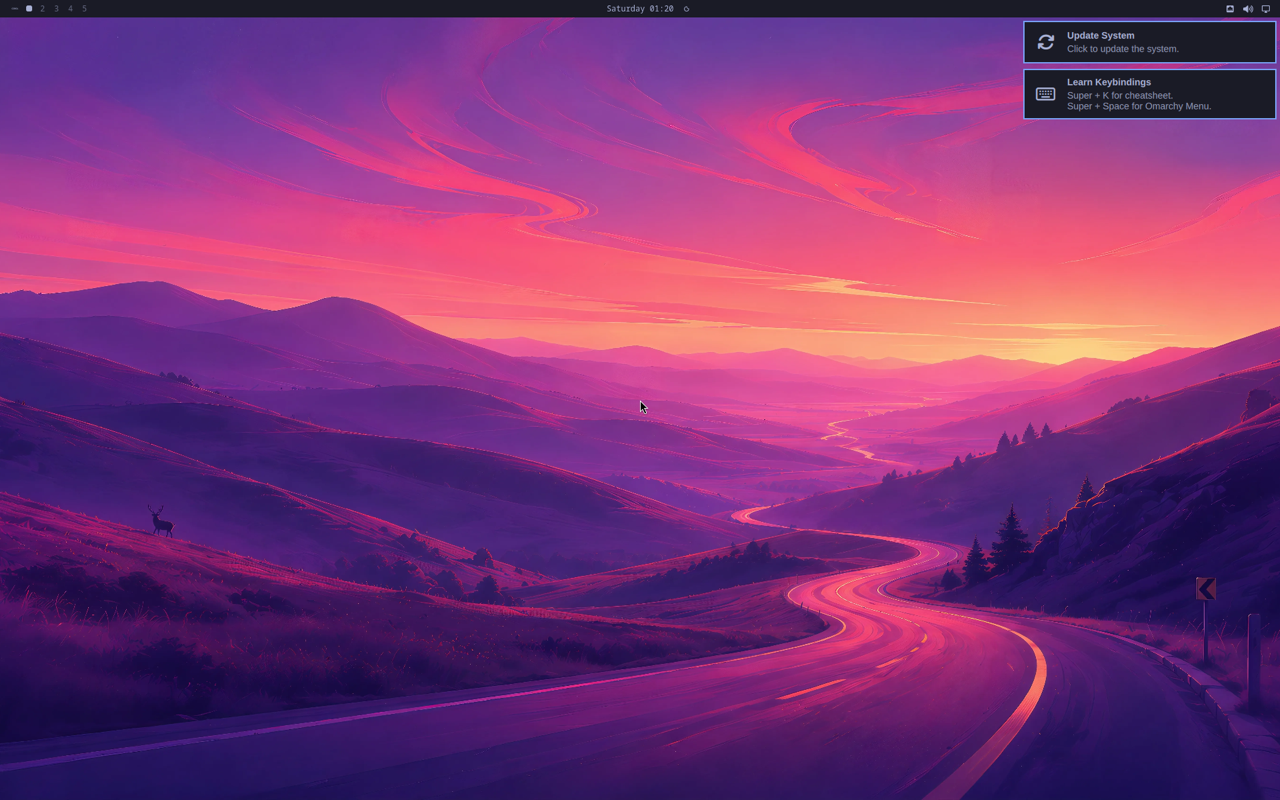
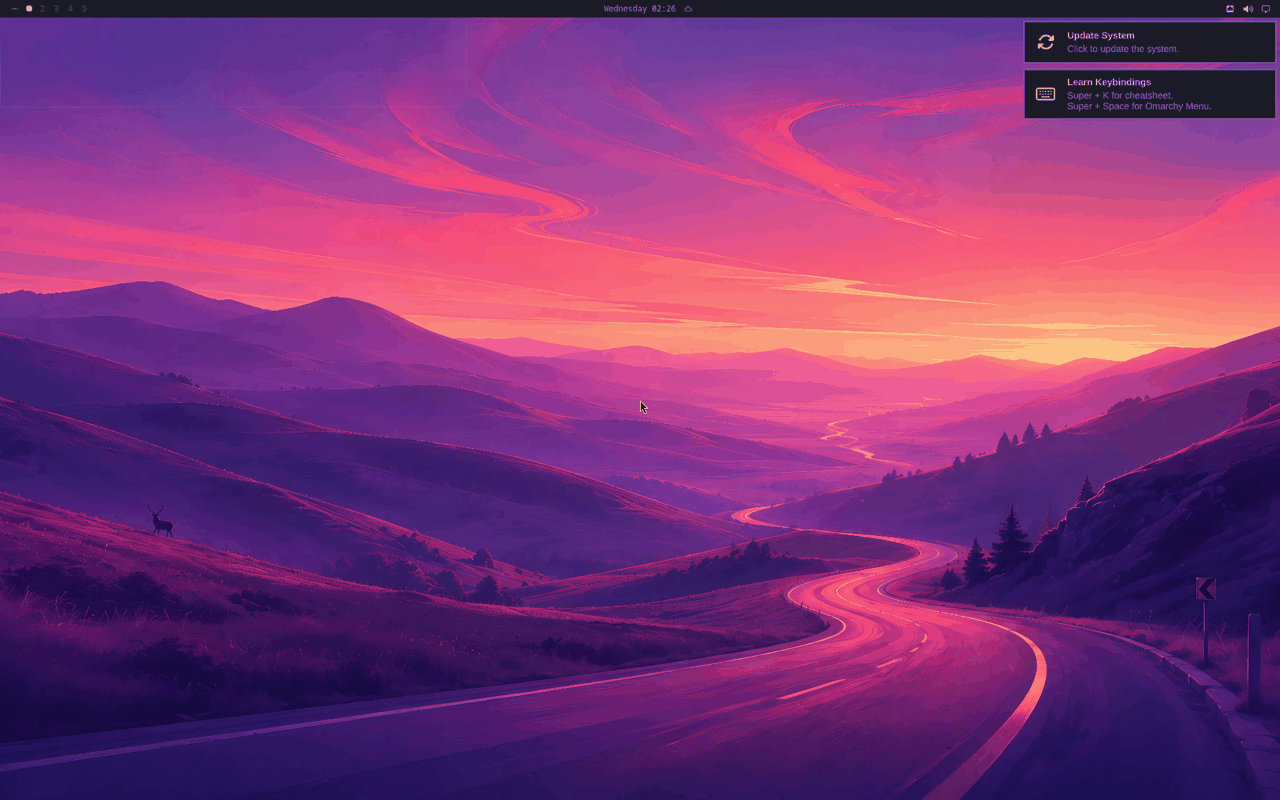
gallery: match the image that is actually published
The entry described the first upload, and the current one differs:

- memory 12 GiB -> 4 GiB. config.plist inside the published zip says
  MemorySize 4096, and this is the number a reader configures the VM with.
- display VGA -> GPU Accelerated. The device is virtio-gpu-gl-pci; there is no
  VGA adapter here. The body now says in the same breath that the desktop still
  renders in software by default, so the two do not contradict each other.
- Hyprland 0.56.1 -> 0.56.2, and 445 -> 456 omarchy-* commands, both read off
  the boot verification of the packaged image rather than remembered.
- Retina 3840x2160 -> 3840x2400. The Mac panels are 16:10, and a 16:9 mode
  leaves black bars.
- The UTM 5.0.x claim is attributed to the two reports it comes from, instead
  of being stated flatly. It was never measured here; this machine runs 4.7.5.

Screenshot re-shot at 1280x800 to match the rest of the gallery, 2.3 MB -> 267 KB.

Changed region(s): [[0.8125, 0.0312, 1.0, 0.1562], [0.4688, 0.0, 0.5312, 0.0312], [0.9688, 0.0, 1.0, 0.0312]]

diff --git a/_virtual_machines/omarchy-arm.md b/_virtual_machines/omarchy-arm.md
@@ -1,9 +1,9 @@
 ---
 title: Omarchy 4 ARM64
 architecture: ARM64
-memory: 12 GiB
+memory: 4 GiB
 disk: 80 GiB
-display: VGA
+display: GPU Accelerated
 spice_installed: true
 username: omarchy
 password: omarchy
@@ -13,8 +13,8 @@ download: https://archive.org/details/omarchy-arm-utm
 utm_link: false
 ---
 Arch Linux ARM with the [Omarchy 4](https://omarchy.org) desktop: Hyprland
-0.56.1, quickshell as bar, menu, OSD and notification daemon, hyprlock,
-hypridle, uwsm and SDDM with autologin, plus the 445 `omarchy-*` commands.
+0.56.2, quickshell as bar, menu, OSD and notification daemon, hyprlock,
+hypridle, uwsm and SDDM with autologin, plus the 456 `omarchy-*` commands.
 
 Omarchy has no aarch64 build — its package repository serves x86_64 only — so
 this rebuilds the desktop on Arch Linux ARM and applies the real contents of the
@@ -26,11 +26,13 @@ The image ships a neutral `us` keyboard layout, with Option acting as SUPER so
 Omarchy's shortcuts are reachable from a Mac keyboard. The timezone is UTC;
 set yours with `sudo timedatectl set-timezone <zone>`.
 
-Rendering is software by default, because under UTM 4.7 GPU clients come up
-black. On UTM 5.0.x that is not the case: `omarchy-arm-gpu --on` switches to
-hardware GL, and `--off` goes back. `omarchy-arm-display --retina` moves the
-desktop to 3840x2160 at scale 2 for a sharp panel, and `--default` goes back.
-`omarchy-arm-user` switches which account logs in automatically.
+The VM is configured with the GPU-capable display device
+(`virtio-gpu-gl-pci`), but the desktop renders in software by default, because
+under UTM 4.7 GPU clients come up black. Two reports on UTM 5.0.x describe that
+bug as gone; `omarchy-arm-gpu --on` switches to hardware GL there, and `--off`
+goes back. `omarchy-arm-display --retina` moves the desktop to 3840x2400 at
+scale 2 for a sharp panel, and `--default` goes back. `omarchy-arm-user`
+switches which account logs in automatically.
 
 Shared clipboard works in both directions with "Share clipboard" enabled and the
 VM open as a window. Shared folders work in both VirtFS and SPICE WebDAV modes:
